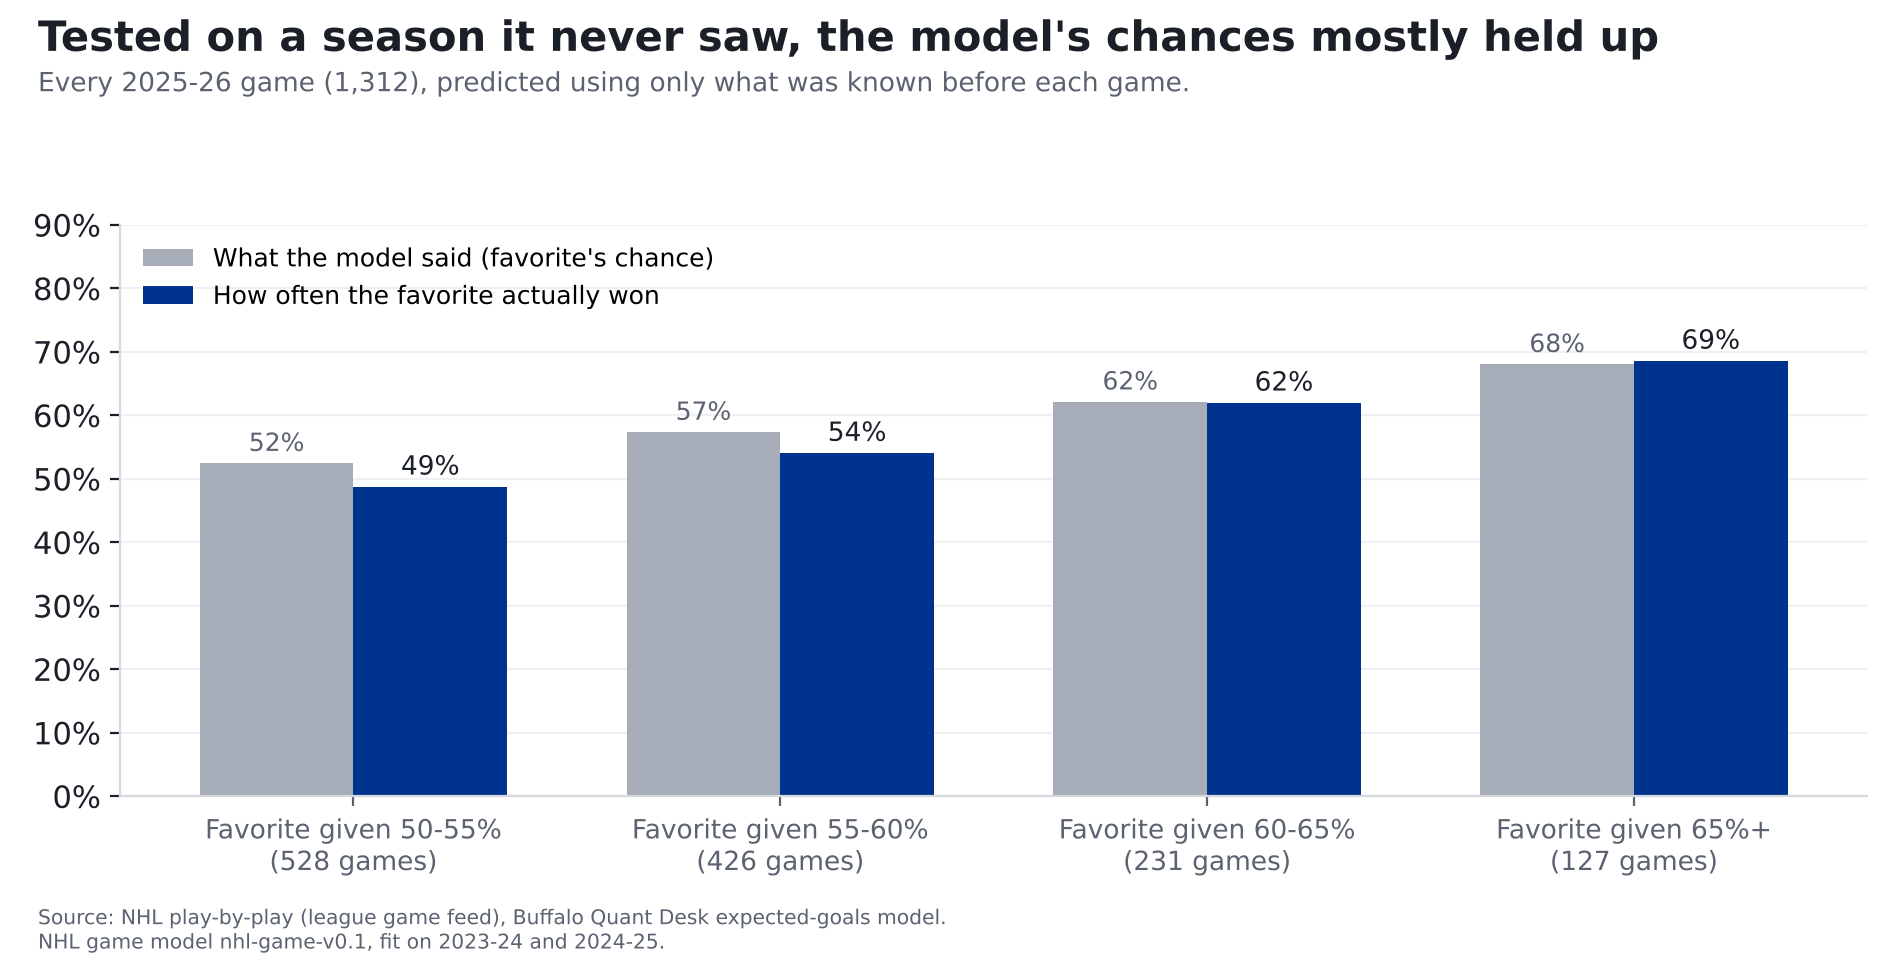
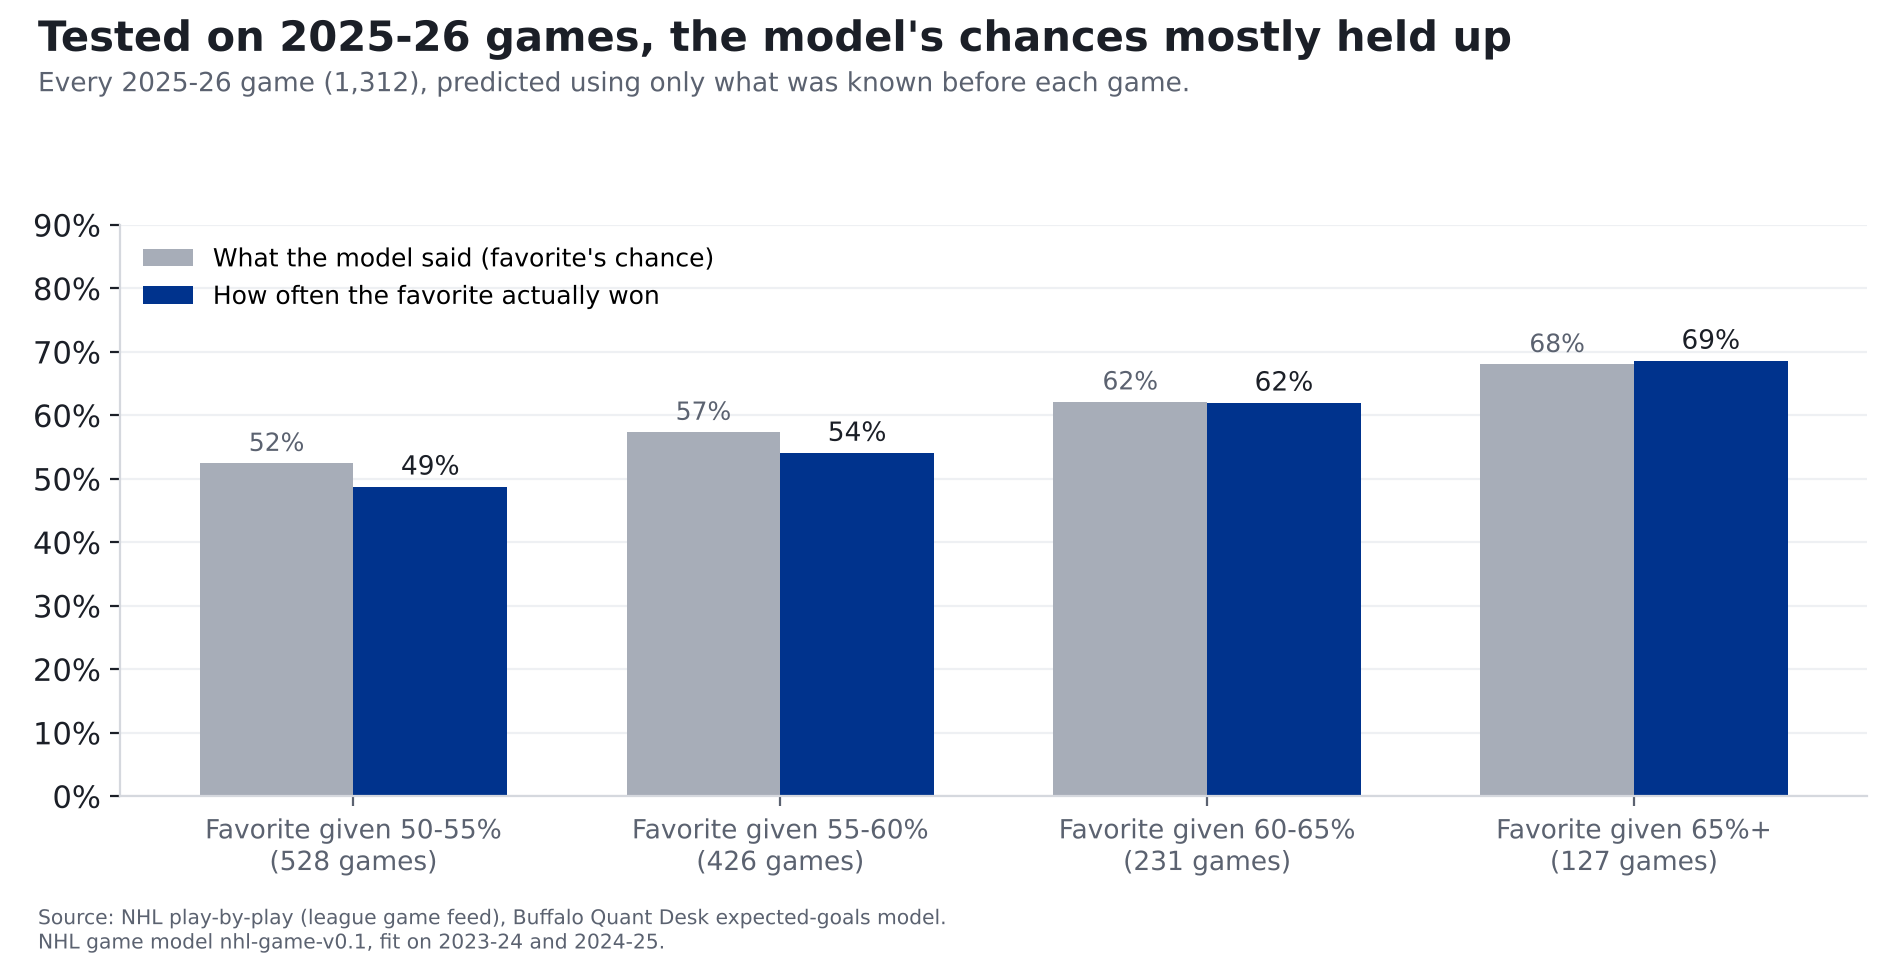
Pregame: model QA fixes (xG refit disclosure, called not picked, context, goalie direction); NHL support in Ledger; Sabres logger
Claude-Session: https://claude.ai/code/session_01EpbAX7fMNT8LnsxAN6UoCp

Changed region(s): [[0.1553, 0.0, 0.8695, 0.0625]]

diff --git a/site/analysis/sabres-vegas-pregame-nov-8.html b/site/analysis/sabres-vegas-pregame-nov-8.html
@@ -13,11 +13,11 @@ Our model gives Vegas a 54% chance to win and Buffalo 46%.</strong></p>
 8-5-3 in 16 games, Golden Knights 11-5-2 in 18. Sixteen to 18 games is early; ranks can move a lot.</em></p>
 <p><img alt="Chances created vs allowed" src="sabres-vgk-chances.png" /></p>
 <h2>How we measure "chances"</h2>
-<p>Every shot has odds of going in, based on where it was taken and what kind of shot it was. Over the last three seasons
+<p>Every shot has a chance of going in, based on where it was taken and what kind of shot it was. Over the last three seasons
 (336,462 unblocked shots), a shot from within 10 feet went in 13.8% of the time; one from 60 feet or more, 0.8%. Add
-up the odds on every shot and you get what a team's chances were worth in goals.</p>
-<p><strong>The source:</strong> the NHL's own play-by-play feed, which records where every shot came from. <strong>The math:</strong> each shot's odds
-come from our model, built on past seasons and checked on a season it never saw; we nudge each season's totals so the
+up those chances on every shot and you get what a team's chances were worth in goals.</p>
+<p><strong>The source:</strong> the NHL's own play-by-play feed, which records where every shot came from. <strong>The math:</strong> each shot's chance
+comes from our model, built on past seasons and tested on a season it hadn't seen before we added that season in; we nudge each season's totals so the
 league's chances add up to the league's real goals. <strong>How we checked it:</strong> the full explanation, with the chart, is in our
 story on <a href="sabres-50-win-mirage.html">last year's 50-win season</a>.</p>
 <h2>The two teams, side by side</h2>
@@ -151,14 +151,17 @@ home. Then we play the game out on paper: with those scoring rates, how often do
 are split the way they went for home teams in past overtimes and shootouts (55% home wins).</p>
 <p><img alt="Model test" src="sabres-vgk-model-test.png" /></p>
 <p><strong>How we checked it.</strong> We built the model on the 2023-24 and 2024-25 seasons, then had it call every 2025-26 game using only
-what was known before each game. It picked the winner 55% of the time; picking the home team every time would have been right
-52%. Its percentages were also closer to what actually happened than two simple guesses, giving every home team
+what was known before each game. It called the winner 55% of the time; choosing the home team every time would have been right
+52%. (The shot model behind the chances was later refit with 2025-26 included; re-running this test with a
+version that never saw 2025-26 gave the same results.) Its percentages were also closer to what actually happened than two simple guesses, giving every home team
 its usual edge or going by the teams' records, though not by much: a hockey game is close to a coin flip, and no model changes that.
-This season so far (276 games) it has picked 61%. When it made a team a 60-65% favorite in 2025-26, that team won
-62% of the time. But its slight favorites, given 50-55%, won only 49%: a coin flip. Sunday's call is in that range,
+This season so far (276 games) it has called 61% right; home teams have won 57%. When it made a team a 60-65% favorite in 2025-26, that team won
+62% of the time. But the teams it favored slightly, at 50-55%, won 49%, no better than a coin flip, and at 55-60% they won 54%. Sunday's call is in that range,
 so read it as "slight lean Vegas," not "Vegas should win."</p>
 <p><strong>What it doesn't know: goalies.</strong> The model rates teams by the chances they create and allow, not by who's in net. Buffalo's
-expected starter, Colten Ellis, has been better than average this season; Vegas's starter wasn't named when we published.</p>
+expected starter, Colten Ellis, has saved 2.2 more goals than an average goalie would have this season; if Vegas starts Adin Hill
+(-1.8), the goalie matchup leans Buffalo in a way the model doesn't count. Small samples on both sides, and
+Vegas's starter wasn't named when we published.</p>
 <h2>What to watch</h2>
 <ul>
 <li><strong>Second chances.</strong> Count Buffalo's shots that come right after another shot. The Sabres' season average is 3.9.</li>
@@ -179,8 +182,9 @@ expected starter, Colten Ellis, has been better than average this season; Vegas'
   league + 0.5 x last season's edge; expected goals = (off + opp def - league) x league goals/xG ratio to date; goals =
   -0.254 + 1.032 x that + 0.272 x home (fit 2023-25); independent Poisson; regulation ties to home at 0.545.
   Brier: 2025-26 0.2446 (home-team rate 0.2504, record log5 0.2514, coin 0.25);
-  2026-27 to date 0.2283 (0.2459, 0.2502). Settings picked on 2024-25 only
-  (<code>scripts/tune_nhl_game_model.py</code>). Goalies not in the model.</li>
+  2026-27 to date 0.2283 (0.2459, 0.2502). Settings chosen on 2024-25 only
+  (<code>scripts/tune_nhl_game_model.py</code>). Goalies not in the model. The xG model's final fit includes 2025-26; with xG fit on 2023-25 only,
+  QA re-ran the 2025-26 test: Brier 0.2444, buckets 52/48, 57/55, 62/61, 68/70, today's call unchanged (46.1%).</li>
 </ul></main>
 <footer><div class="wrap">Buffalo Quant Desk. Every number is computed from public play-by-play
 (NFL data via nflverse; NHL data from the league's public game feed). Analysis, not wagering advice. Not affiliated with the Buffalo Bills,

diff --git a/src/reports/sabres_pregame_vgk.py b/src/reports/sabres_pregame_vgk.py
@@ -132,7 +132,7 @@ def main(as_of=AS_OF):
     ax.set_xticks(xs, [f"Favorite given {c[0]}\n({c[3]} games)" for c in calb], fontsize=9.5)
     ax.set_ylim(0, 0.9); ax.yaxis.set_major_formatter(matplotlib.ticker.PercentFormatter(1, decimals=0))
     ax.legend(frameon=False, fontsize=9, loc="upper left"); ax.grid(axis="y", color="#EEF0F3"); ax.set_axisbelow(True)
-    finish(fig, "Tested on a season it never saw, the model's chances mostly held up",
+    finish(fig, "Tested on 2025-26 games, the model's chances mostly held up",
            f"Every 2025-26 game ({bt[20252026]['n']:,}), predicted using only what was known before each game.",
            f"NHL game model {gmod.VERSION}, fit on 2023-24 and 2024-25.")
     fig.savefig(OUT / "sabres-vgk-model-test.png"); plt.close(fig)
@@ -195,12 +195,12 @@ Our model gives Vegas a {1 - p_b:.0%} chance to win and Buffalo {p_b:.0%}.**
 
 ## How we measure "chances"
 
-Every shot has odds of going in, based on where it was taken and what kind of shot it was. Over the last three seasons
+Every shot has a chance of going in, based on where it was taken and what kind of shot it was. Over the last three seasons
 ({n_pri:,} unblocked shots), a shot from within 10 feet went in {close10:.1%} of the time; one from 60 feet or more, {far60:.1%}. Add
-up the odds on every shot and you get what a team's chances were worth in goals.
+up those chances on every shot and you get what a team's chances were worth in goals.
 
-**The source:** the NHL's own play-by-play feed, which records where every shot came from. **The math:** each shot's odds
-come from our model, built on past seasons and checked on a season it never saw; we nudge each season's totals so the
+**The source:** the NHL's own play-by-play feed, which records where every shot came from. **The math:** each shot's chance
+comes from our model, built on past seasons and tested on a season it hadn't seen before we added that season in; we nudge each season's totals so the
 league's chances add up to the league's real goals. **How we checked it:** the full explanation, with the chart, is in our
 story on [last year's 50-win season](sabres-50-win-mirage.html).
 
@@ -263,15 +263,18 @@ are split the way they went for home teams in past overtimes and shootouts ({p_o
 ![Model test](sabres-vgk-model-test.png)
 
 **How we checked it.** We built the model on the 2023-24 and 2024-25 seasons, then had it call every 2025-26 game using only
-what was known before each game. It picked the winner {bt[20252026]['right']:.0%} of the time; picking the home team every time would have been right
-{bt[20252026]['home_obs']:.0%}. Its percentages were also closer to what actually happened than two simple guesses, giving every home team
+what was known before each game. It called the winner {bt[20252026]['right']:.0%} of the time; choosing the home team every time would have been right
+{bt[20252026]['home_obs']:.0%}. (The shot model behind the chances was later refit with 2025-26 included; re-running this test with a
+version that never saw 2025-26 gave the same results.) Its percentages were also closer to what actually happened than two simple guesses, giving every home team
 its usual edge or going by the teams' records, though not by much: a hockey game is close to a coin flip, and no model changes that.
-This season so far ({bt[SEASON]['n']} games) it has picked {bt[SEASON]['right']:.0%}. When it made a team a 60-65% favorite in 2025-26, that team won
-{calb[2][2]:.0%} of the time. But its slight favorites, given 50-55%, won only {calb[0][2]:.0%}: a coin flip. Sunday's call is in that range,
+This season so far ({bt[SEASON]['n']} games) it has called {bt[SEASON]['right']:.0%} right; home teams have won {bt[SEASON]['home_obs']:.0%}. When it made a team a 60-65% favorite in 2025-26, that team won
+{calb[2][2]:.0%} of the time. But the teams it favored slightly, at 50-55%, won {calb[0][2]:.0%}, no better than a coin flip, and at 55-60% they won {calb[1][2]:.0%}. Sunday's call is in that range,
 so read it as "slight lean Vegas," not "Vegas should win."
 
 **What it doesn't know: goalies.** The model rates teams by the chances they create and allow, not by who's in net. Buffalo's
-expected starter, Colten Ellis, has been better than average this season; Vegas's starter wasn't named when we published.
+expected starter, Colten Ellis, has saved {bg[bg.name == 'Colten Ellis'].gsax.sum():.1f} more goals than an average goalie would have this season; if Vegas starts Adin Hill
+({vg[vg.name == 'Adin Hill'].gsax.sum():+.1f}), the goalie matchup leans Buffalo in a way the model doesn't count. Small samples on both sides, and
+Vegas's starter wasn't named when we published.
 
 ## What to watch
 
@@ -293,8 +296,9 @@ expected starter, Colten Ellis, has been better than average this season; Vegas'
   league + {gmod.PRIOR_KEEP} x last season's edge; expected goals = (off + opp def - league) x league goals/xG ratio to date; goals =
   {coef[0]:.3f} + {coef[1]:.3f} x that + {coef[2]:.3f} x home (fit 2023-25); independent Poisson; regulation ties to home at {p_ot:.3f}.
   Brier: 2025-26 {bt[20252026]['brier']:.4f} (home-team rate {bt[20252026]['b_home']:.4f}, record log5 {bt[20252026]['b_rec']:.4f}, coin 0.25);
-  2026-27 to date {bt[SEASON]['brier']:.4f} ({bt[SEASON]['b_home']:.4f}, {bt[SEASON]['b_rec']:.4f}). Settings picked on 2024-25 only
-  (`scripts/tune_nhl_game_model.py`). Goalies not in the model.
+  2026-27 to date {bt[SEASON]['brier']:.4f} ({bt[SEASON]['b_home']:.4f}, {bt[SEASON]['b_rec']:.4f}). Settings chosen on 2024-25 only
+  (`scripts/tune_nhl_game_model.py`). Goalies not in the model. The xG model's final fit includes 2025-26; with xG fit on 2023-25 only,
+  QA re-ran the 2025-26 test: Brier 0.2444, buckets 52/48, 57/55, 62/61, 68/70, today's call unchanged (46.1%).
 """
     (OUT / "2026-11-08-sabres-vgk-pregame.md").write_text(md)
     (OUT / "2026-11-08-sabres-vgk-pregame.hero.json").write_text(json.dumps({
@@ -303,9 +307,9 @@ expected starter, Colten Ellis, has been better than average this season; Vegas'
                 [f"{b.reb_f_pg:.1f}", f"Sabres rebound shots a game ({ordn(rb_rk_f)} of 32)"]],
         "note": (f"Close to a coin flip: our model expects {mu_v:.1f} goals for Vegas, {mu_b:.1f} for Buffalo. Rebounds go in {reb_rate:.1%} "
                  f"of the time, about {reb_rate / non_rate:.1f} times the rate of other shots."),
-        "explainer": {"kicker": "How we know", "title": "Every shot has odds.",
+        "explainer": {"kicker": "How we know", "title": "Every shot has a chance of going in.",
                       "text": (f"A shot from within 10 feet went in {close10:.1%} of the time over the last three seasons; from 60 feet or more, "
-                               f"{far60:.1%}. Add up the odds on every shot and you get what a team's chances were worth in goals."),
+                               f"{far60:.1%}. Add up those chances on every shot and you get what a team's chances were worth in goals."),
                       "fmt": "pct", "bars": [["Rebounds", round(float(reb_rate), 3)], ["Other shots", round(float(non_rate), 3)]]},
     }, indent=1))
     print(md)

diff --git a/src/ledger/ledger.py b/src/ledger/ledger.py
@@ -45,16 +45,25 @@ def kickoff_utc(game_id, con=None):
 
 
 def add_prediction(*, game_id, subject, claim_text, metric, threshold, probability,
-                   model_version, notes="", sport="NFL", now=None, con=None):
+                   model_version, notes="", sport="NFL", now=None, con=None, kickoff=None, season=None, week=None):
+    """NFL: kickoff comes from raw_schedules. Other sports: pass kickoff (aware datetime), season and week explicitly,
+    and record where the start time came from in notes."""
     now = now or datetime.now(timezone.utc)
-    ko = kickoff_utc(game_id, con)
+    if sport == "NFL":
+        ko = kickoff_utc(game_id, con)
+    else:
+        if kickoff is None or kickoff.tzinfo is None or season is None:
+            raise ValueError("non-NFL predictions need an aware kickoff datetime and a season")
+        ko = kickoff.astimezone(timezone.utc)
     if now >= ko:
         raise ValueError(f"Rejected: {now.isoformat()} is not before kickoff {ko.isoformat()}")
     if not 0 < float(probability) < 1:
         raise ValueError("probability must be strictly between 0 and 1")
     existing = _read(PRED_CSV, PRED_COLS)
     pid = f"P{len(existing) + 1:04d}"
-    season, week = game_id.split("_")[0], int(game_id.split("_")[1])
+    if sport == "NFL":
+        season, week = game_id.split("_")[0], int(game_id.split("_")[1])
+    week = "" if week is None else week
     row = dict(id=pid, created_at_utc=now.strftime("%Y-%m-%dT%H:%M:%SZ"), sport=sport, season=season,
                week=week, game_id=game_id, subject=subject, claim_text=claim_text, metric=metric,
                threshold=threshold, probability=f"{float(probability):.2f}",

diff --git a/src/ledger/log_sabres_vgk.py b/src/ledger/log_sabres_vgk.py
@@ -1,0 +1,29 @@
+"""Log the Sabres-Vegas call (Nov 8, 2026) before puck drop. Run once, only on Charlie's go-ahead.
+
+Probability recomputed here from NHL game model v0.1 with games before Nov 8, the same inputs the pregame story uses.
+Puck drop 3:30 PM ET (20:30 UTC), from the league schedule as listed by the NHL.com game preview.
+"""
+from datetime import datetime, timezone
+
+from src.ledger import nhl_game_model as m
+from src.ledger.ledger import add_prediction, load_to_db
+
+GAME = "NHL_20262027_2026-11-08_VGK_at_BUF"   # NHL game id assigned when the game is ingested; graded by date + teams
+PUCK_DROP = datetime(2026, 11, 8, 20, 30, tzinfo=timezone.utc)
+
+
+def main():
+    t, coef, p_ot, _ = m.train()
+    off, de, lg, ratio = m.ratings(t, 20262027, "2026-11-08")
+    mb, mv = m.mu(coef, m.raw(off, de, lg, ratio, "BUF", "VGK"), 1), m.mu(coef, m.raw(off, de, lg, ratio, "VGK", "BUF"), 0)
+    p_b, p_tie = m.win_prob(mb, mv, p_ot)
+    pid = add_prediction(game_id=GAME, subject="Sabres vs. Vegas", claim_text="Sabres beat the Golden Knights (any result: regulation, OT or shootout)",
+                         metric="BUF_win", threshold="win", probability=round(p_b, 2), model_version=m.VERSION, sport="NHL",
+                         kickoff=PUCK_DROP, season="20262027", week="",
+                         notes=f"expected goals BUF {mb:.2f}, VGK {mv:.2f}; tie after 60 {p_tie:.3f}; data through 2026-11-07")
+    print(pid, f"{p_b:.0%}")
+    load_to_db()
+
+
+if __name__ == "__main__":
+    main()

diff --git a/reports/2026-11-08-sabres-vgk-pregame.md b/reports/2026-11-08-sabres-vgk-pregame.md
@@ -12,12 +12,12 @@ Our model gives Vegas a 54% chance to win and Buffalo 46%.**
 
 ## How we measure "chances"
 
-Every shot has odds of going in, based on where it was taken and what kind of shot it was. Over the last three seasons
+Every shot has a chance of going in, based on where it was taken and what kind of shot it was. Over the last three seasons
 (336,462 unblocked shots), a shot from within 10 feet went in 13.8% of the time; one from 60 feet or more, 0.8%. Add
-up the odds on every shot and you get what a team's chances were worth in goals.
+up those chances on every shot and you get what a team's chances were worth in goals.
 
-**The source:** the NHL's own play-by-play feed, which records where every shot came from. **The math:** each shot's odds
-come from our model, built on past seasons and checked on a season it never saw; we nudge each season's totals so the
+**The source:** the NHL's own play-by-play feed, which records where every shot came from. **The math:** each shot's chance
+comes from our model, built on past seasons and tested on a season it hadn't seen before we added that season in; we nudge each season's totals so the
 league's chances add up to the league's real goals. **How we checked it:** the full explanation, with the chart, is in our
 story on [last year's 50-win season](sabres-50-win-mirage.html).
 
@@ -83,15 +83,18 @@ are split the way they went for home teams in past overtimes and shootouts (55% 
 ![Model test](sabres-vgk-model-test.png)
 
 **How we checked it.** We built the model on the 2023-24 and 2024-25 seasons, then had it call every 2025-26 game using only
-what was known before each game. It picked the winner 55% of the time; picking the home team every time would have been right
-52%. Its percentages were also closer to what actually happened than two simple guesses, giving every home team
+what was known before each game. It called the winner 55% of the time; choosing the home team every time would have been right
+52%. (The shot model behind the chances was later refit with 2025-26 included; re-running this test with a
+version that never saw 2025-26 gave the same results.) Its percentages were also closer to what actually happened than two simple guesses, giving every home team
 its usual edge or going by the teams' records, though not by much: a hockey game is close to a coin flip, and no model changes that.
-This season so far (276 games) it has picked 61%. When it made a team a 60-65% favorite in 2025-26, that team won
-62% of the time. But its slight favorites, given 50-55%, won only 49%: a coin flip. Sunday's call is in that range,
+This season so far (276 games) it has called 61% right; home teams have won 57%. When it made a team a 60-65% favorite in 2025-26, that team won
+62% of the time. But the teams it favored slightly, at 50-55%, won 49%, no better than a coin flip, and at 55-60% they won 54%. Sunday's call is in that range,
 so read it as "slight lean Vegas," not "Vegas should win."
 
 **What it doesn't know: goalies.** The model rates teams by the chances they create and allow, not by who's in net. Buffalo's
-expected starter, Colten Ellis, has been better than average this season; Vegas's starter wasn't named when we published.
+expected starter, Colten Ellis, has saved 2.2 more goals than an average goalie would have this season; if Vegas starts Adin Hill
+(-1.8), the goalie matchup leans Buffalo in a way the model doesn't count. Small samples on both sides, and
+Vegas's starter wasn't named when we published.
 
 ## What to watch
 
@@ -113,5 +116,6 @@ expected starter, Colten Ellis, has been better than average this season; Vegas'
   league + 0.5 x last season's edge; expected goals = (off + opp def - league) x league goals/xG ratio to date; goals =
   -0.254 + 1.032 x that + 0.272 x home (fit 2023-25); independent Poisson; regulation ties to home at 0.545.
   Brier: 2025-26 0.2446 (home-team rate 0.2504, record log5 0.2514, coin 0.25);
-  2026-27 to date 0.2283 (0.2459, 0.2502). Settings picked on 2024-25 only
-  (`scripts/tune_nhl_game_model.py`). Goalies not in the model.
+  2026-27 to date 0.2283 (0.2459, 0.2502). Settings chosen on 2024-25 only
+  (`scripts/tune_nhl_game_model.py`). Goalies not in the model. The xG model's final fit includes 2025-26; with xG fit on 2023-25 only,
+  QA re-ran the 2025-26 test: Brier 0.2444, buckets 52/48, 57/55, 62/61, 68/70, today's call unchanged (46.1%).
